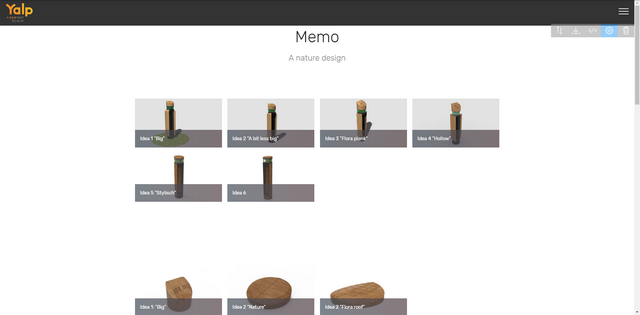
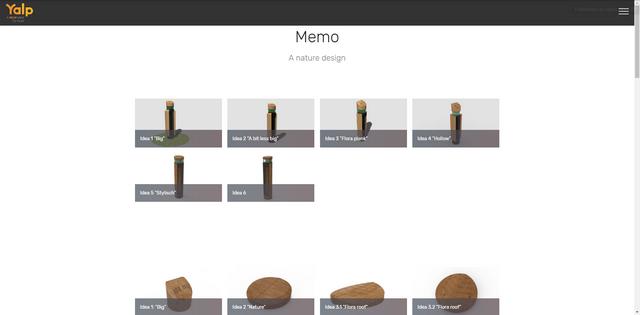
site
site

diff --git a/March2018/page14.html b/March2018/page14.html
@@ -69,7 +69,7 @@
     </nav>
 </section>
 
-<section class="engine"><a href="https://mobirise.me/s">free bootstrap themes</a></section><section class="mbr-section content4 cid-qS83mR5DQU" id="content4-2p">
+<section class="engine"><a href="https://mobirise.me">Mobirise</a></section><section class="mbr-section content4 cid-qS83mR5DQU" id="content4-2p">
 
     
 
@@ -120,6 +120,21 @@
         <div><!-- Filter --><!-- Gallery --><div class="mbr-gallery-row"><div class="mbr-gallery-layout-default"><div><div><div class="mbr-gallery-item mbr-gallery-item--p1" data-video-url="false" data-tags="Geweldige"><div href="#lb-gallery1-2t" data-slide-to="0" data-toggle="modal"><img src="assets/images/14-08.351-1920x1080-800x450.png" alt="" title=""><span class="icon-focus"></span><span class="mbr-gallery-title mbr-fonts-style display-7">Idea 1: "Big"&nbsp;</span></div></div><div class="mbr-gallery-item mbr-gallery-item--p1" data-video-url="false" data-tags="Sympathieke"><div href="#lb-gallery1-2t" data-slide-to="1" data-toggle="modal"><img src="assets/images/untitled.343-1920x1080-800x450.png" alt="" title=""><span class="icon-focus"></span><span class="mbr-gallery-title mbr-fonts-style display-7">Idea 2 "Nature"</span></div></div><div class="mbr-gallery-item mbr-gallery-item--p1" data-video-url="false" data-tags="Sympathieke"><div href="#lb-gallery1-2t" data-slide-to="2" data-toggle="modal"><img src="assets/images/14-08.350-1920x1080-800x450.png" alt="" title=""><span class="icon-focus"></span><span class="mbr-gallery-title mbr-fonts-style display-7">Idea 3.1 "Flora roof"</span></div></div><div class="mbr-gallery-item mbr-gallery-item--p1" data-video-url="false" data-tags="Sympathieke"><div href="#lb-gallery1-2t" data-slide-to="3" data-toggle="modal"><img src="assets/images/untitled.361-1920x1080-800x450.png" alt="" title=""><span class="icon-focus"></span><span class="mbr-gallery-title mbr-fonts-style display-7">Idea 3.2 "Flora roof"</span></div></div></div></div><div class="clearfix"></div></div></div><!-- Lightbox --><div data-app-prevent-settings="" class="mbr-slider modal fade carousel slide" tabindex="-1" data-keyboard="true" data-interval="false" id="lb-gallery1-2t"><div class="modal-dialog"><div class="modal-content"><div class="modal-body"><div class="carousel-inner"><div class="carousel-item"><img src="assets/images/14-08.351-1920x1080.png" alt="" title=""></div><div class="carousel-item"><img src="assets/images/untitled.343-1920x1080.png" alt="" title=""></div><div class="carousel-item"><img src="assets/images/14-08.350-1920x1080.png" alt="" title=""></div><div class="carousel-item active"><img src="assets/images/untitled.361-1920x1080.png" alt="" title=""></div></div><a class="carousel-control carousel-control-prev" role="button" data-slide="prev" href="#lb-gallery1-2t"><span class="mbri-left mbr-iconfont" aria-hidden="true"></span><span class="sr-only">Previous</span></a><a class="carousel-control carousel-control-next" role="button" data-slide="next" href="#lb-gallery1-2t"><span class="mbri-right mbr-iconfont" aria-hidden="true"></span><span class="sr-only">Next</span></a><a class="close" href="#" role="button" data-dismiss="modal"><span class="sr-only">Close</span></a></div></div></div></div></div>
     </div>
 
+</section>
+
+<section class="cid-qSibHmtnar" id="image2-32">
+
+    
+
+    <figure class="mbr-figure">
+        <div class="image-block" style="width: 100%;">
+            <img src="assets/images/memo-render12-explode-1920x1080.jpg" alt="Mobirise" title="">
+            <figcaption class="mbr-figure-caption mbr-figure-caption-over">
+                <div class="container pb-5 mbr-white align-center mbr-fonts-style display-1">
+                    Explode</div>
+            </figcaption>
+        </div>
+    </figure>
 </section>
 
 <section class="cid-qScNcwYGcS" id="image2-30">

diff --git a/March2018/assets/mobirise/css/mbr-additional.css b/March2018/assets/mobirise/css/mbr-additional.css
@@ -8740,6 +8740,29 @@ body {
   -webkit-transition: 0.2s background ease-in-out;
   transition: 0.2s background ease-in-out;
 }
+.cid-qSibHmtnar {
+  background: #ffffff;
+}
+.cid-qSibHmtnar .image-block {
+  margin: auto;
+  width: 100% !important;
+}
+.cid-qSibHmtnar .mbr-figure {
+  margin: 0 auto;
+}
+.cid-qSibHmtnar figcaption {
+  position: relative;
+}
+.cid-qSibHmtnar figcaption div {
+  position: absolute;
+  bottom: 0;
+  width: 100%;
+}
+@media (max-width: 768px) {
+  .cid-qSibHmtnar .image-block {
+    width: 100% !important;
+  }
+}
 .cid-qScNcwYGcS {
   background: #ffffff;
 }

diff --git a/March2018/index.html b/March2018/index.html
@@ -68,7 +68,7 @@
     </nav>
 </section>
 
-<section class="engine"><a href="https://mobirise.me/g">build a website for free</a></section><section class="mbr-section content5 cid-qM5y0KNGJM mbr-parallax-background" id="content5-2">
+<section class="engine"><a href="https://mobirise.me/n">free landing page html templates</a></section><section class="mbr-section content5 cid-qM5y0KNGJM mbr-parallax-background" id="content5-2">
 
     
 

diff --git a/March2018/page1.html b/March2018/page1.html
@@ -68,7 +68,7 @@
     </nav>
 </section>
 
-<section class="engine"><a href="https://mobirise.me/b">how to create a website for free</a></section><section class="features14 cid-qM5AAFTvRs" id="features14-5">
+<section class="engine"><a href="https://mobirise.me/u">bootstrap responsive templates</a></section><section class="features14 cid-qM5AAFTvRs" id="features14-5">
     
     
 

diff --git a/March2018/page15.html b/March2018/page15.html
@@ -69,7 +69,7 @@
     </nav>
 </section>
 
-<section class="engine"><a href="https://mobirise.me/j">website templates</a></section><section class="mbr-section content4 cid-qScj0OjnTY" id="content4-2v">
+<section class="engine"><a href="https://mobirise.me/e">how to make a website for free</a></section><section class="mbr-section content4 cid-qScj0OjnTY" id="content4-2v">
 
     
 

diff --git a/March2018/page5.html b/March2018/page5.html
@@ -69,7 +69,7 @@
     </nav>
 </section>
 
-<section class="engine"><a href="https://mobirise.me/p">website templates free download</a></section><section class="features14 cid-qM5Rr5wPlb" id="features14-k">
+<section class="engine"><a href="https://mobirise.me/m">free site design templates</a></section><section class="features14 cid-qM5Rr5wPlb" id="features14-k">
     
     
 

diff --git a/March2018/page10.html b/March2018/page10.html
@@ -69,7 +69,7 @@
     </nav>
 </section>
 
-<section class="engine"><a href="https://mobirise.me/n">free landing page templates</a></section><section class="features14 cid-qONtGBlNkQ" id="features14-1q">
+<section class="engine"><a href="https://mobirise.me/h">create a web page for free</a></section><section class="features14 cid-qONtGBlNkQ" id="features14-1q">
     
     
 

diff --git a/March2018/page3.html b/March2018/page3.html
@@ -69,7 +69,7 @@
     </nav>
 </section>
 
-<section class="engine"><a href="https://mobirise.me/h">create a web page for free</a></section><section class="features14 cid-qM5MDF3alp" id="features14-c">
+<section class="engine"><a href="https://mobirise.me/o">free one page web templates</a></section><section class="features14 cid-qM5MDF3alp" id="features14-c">
     
     
 

diff --git a/March2018/page4.html b/March2018/page4.html
@@ -68,7 +68,7 @@
     </nav>
 </section>
 
-<section class="engine"><a href="https://mobirise.me/w">free html5 templates</a></section><section class="features14 cid-qM5OZEmZVs" id="features14-g">
+<section class="engine"><a href="https://mobirise.me/h">how to create a web page for free</a></section><section class="features14 cid-qM5OZEmZVs" id="features14-g">
     
     
 

diff --git a/March2018/page7.html b/March2018/page7.html
@@ -68,7 +68,7 @@
     </nav>
 </section>
 
-<section class="engine"><a href="https://mobirise.me/k">how to develop own website</a></section><section class="features14 cid-qN0HMcmnbv" id="features14-12">
+<section class="engine"><a href="https://mobirise.me/m">website design templates</a></section><section class="features14 cid-qN0HMcmnbv" id="features14-12">
     
     
 

diff --git a/March2018/page13.html b/March2018/page13.html
@@ -69,7 +69,7 @@
     </nav>
 </section>
 
-<section class="engine"><a href="https://mobirise.me/v">html templates</a></section><section class="mbr-section content4 cid-qRsZ8MicCR" id="content4-2k">
+<section class="engine"><a href="https://mobirise.me/y">free html web templates</a></section><section class="mbr-section content4 cid-qRsZ8MicCR" id="content4-2k">
 
     
 

diff --git a/March2018/page12.html b/March2018/page12.html
@@ -68,7 +68,7 @@
     </nav>
 </section>
 
-<section class="engine"><a href="https://mobirise.me/n">landing page templates</a></section><section class="features14 cid-qQ2csX3H0M" id="features14-29">
+<section class="engine"><a href="https://mobirise.me/z">best free css templates</a></section><section class="features14 cid-qQ2csX3H0M" id="features14-29">
     
     
 
